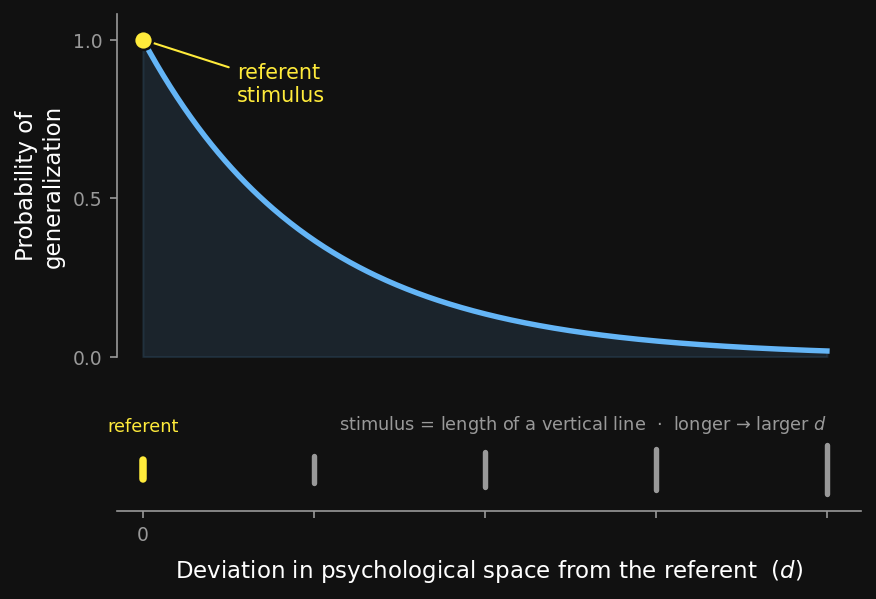
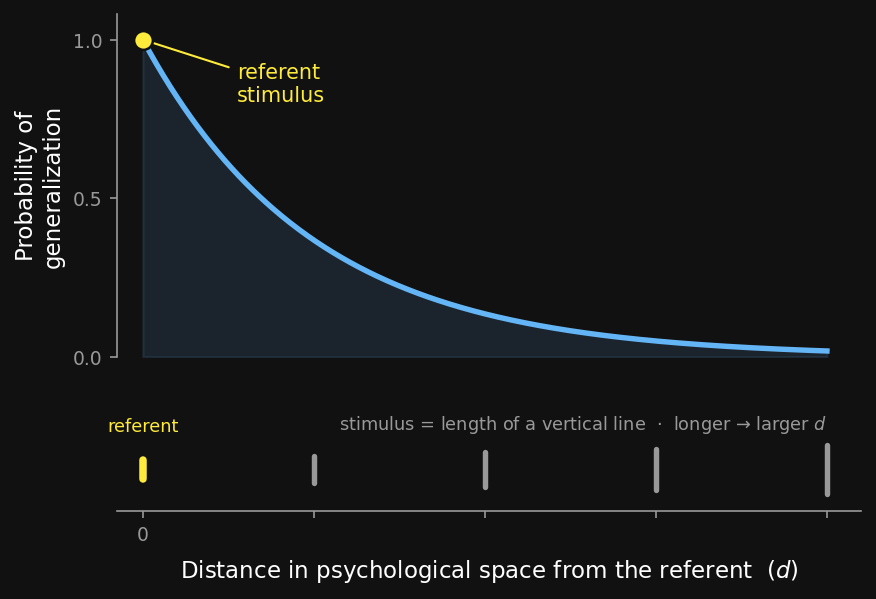
Week 4: Shepard slide — use "distance" consistently, not "deviation"
The slide body already said "decays exponentially with distance"; the plot
axis, the d definition, and the speaker notes said "deviation". Unified on
"distance" (Shepard's standard phrasing) across the slide, the plot x-axis
label, and build_shepard_plot.py. Regenerated shepard_decay.png + week04.pdf.

Changed region(s): [[0.1849, 0.9316, 0.9247, 0.9917]]

diff --git a/scripts/build_shepard_plot.py b/scripts/build_shepard_plot.py
@@ -2,12 +2,12 @@
 """Shepard's universal law of generalization — exponential decay curve.
 
 Renders a single dark-theme PNG for the Week 4 "Shepard's universal law" slide:
-the generalization gradient g(d) = exp(-d) plotted against deviation d in
+the generalization gradient g(d) = exp(-d) plotted against distance d in
 psychological space, with the referent stimulus at d = 0.
 
 The stimulus dimension is illustrated concretely as the length of a vertical
 line: short lines to the left of the referent, long lines to the right, the
-referent itself marked at d = 0. This makes "deviation in psychological space"
+referent itself marked at d = 0. This makes "distance in psychological space"
 tangible — it is how different a line's length looks from the referent's.
 
 Output: course/week04_generalization_hier_bayes/images/shepard_decay.png
@@ -35,7 +35,7 @@ OUT_DIR = (
 def build_shepard_decay() -> None:
     # Two stacked panels: the decay curve (tall) + a short strip for the
     # vertical-line stimulus glyphs. Sharing the x-axis keeps each line glyph
-    # aligned under its deviation value on the curve.
+    # aligned under its distance value on the curve.
     fig, (ax, axs) = plt.subplots(
         2, 1, figsize=(6.4, 4.3), dpi=150, facecolor=BG,
         sharex=True, gridspec_kw=dict(height_ratios=[4.0, 1.0], hspace=0.32),
@@ -74,10 +74,10 @@ def build_shepard_decay() -> None:
 
     # --- bottom panel: vertical-line stimuli, length encodes the dimension ---
     # The referent is a mid-length line at d = 0; comparison lines grow longer
-    # as deviation increases. Each glyph is aligned under its d on the curve.
+    # as distance increases. Each glyph is aligned under its d on the curve.
     line_xs = [0.0, 1.0, 2.0, 3.0, 4.0]
     base_len = 0.34          # referent half-height (panel data units)
-    grow = 0.13              # extra half-height per unit deviation
+    grow = 0.13              # extra half-height per unit distance
     for lx in line_xs:
         half = base_len + grow * lx
         col = YELLOW if lx == 0.0 else DIM
@@ -90,7 +90,7 @@ def build_shepard_decay() -> None:
              color=DIM, fontsize=8.5, ha="right", va="bottom")
 
     axs.set_ylim(-1.45, 1.55)
-    axs.set_xlabel("Deviation in psychological space from the referent  ($d$)",
+    axs.set_xlabel("Distance in psychological space from the referent  ($d$)",
                    color=TEXT, fontsize=11, labelpad=6)
     axs.set_xticks([0, 1, 2, 3, 4])
     axs.set_xticklabels(["0", "", "", "", ""], color=DIM)
